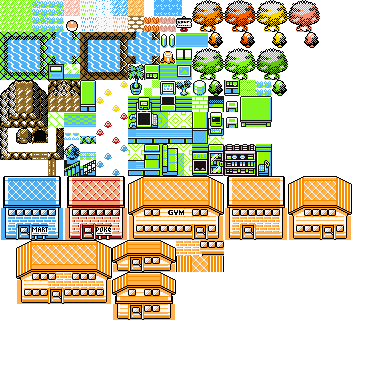
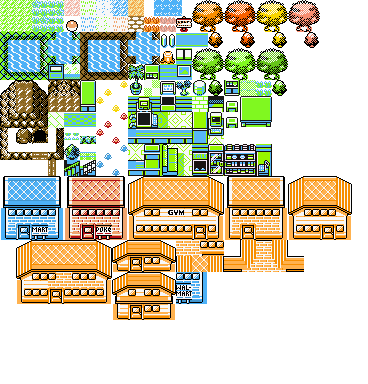
added town 1

Changed region(s): [[0.5978, 0.625, 0.837, 0.7188], [0.4783, 0.6875, 0.5679, 0.8125]]

diff --git a/MapEditor/main.cpp b/MapEditor/main.cpp
@@ -5,16 +5,16 @@ int main()
 {
 	if (!MapMaker::mainFont.loadFromFile("Carlito-Regular.ttf"))
 		throw;
-	MapMaker makeMe("pokeTiles2.png", sf::Vector2u(16, 16), 20, 69);
+	MapMaker makeMe("pokeTiles2.png", sf::Vector2u(16, 16), 44, 42);
 	makeMe.setBlankTile(551);
-	makeMe.setMapFileName("burtHouse.dat");
-	makeMe.load("burtHouse.dat");
+	makeMe.setMapFileName("town1.dat");
+	makeMe.load("town1.dat");
 
 	//In order to use this, just add the row/col then reOpen mapmaker
 	//makeMe.addColumnToLeft(1);
 	//makeMe.addColumnToRight(1);
 
 	makeMe.display();
-	makeMe.save("burtHouse.dat");
+	makeMe.save("town1.dat");
 	return 0;
 }
